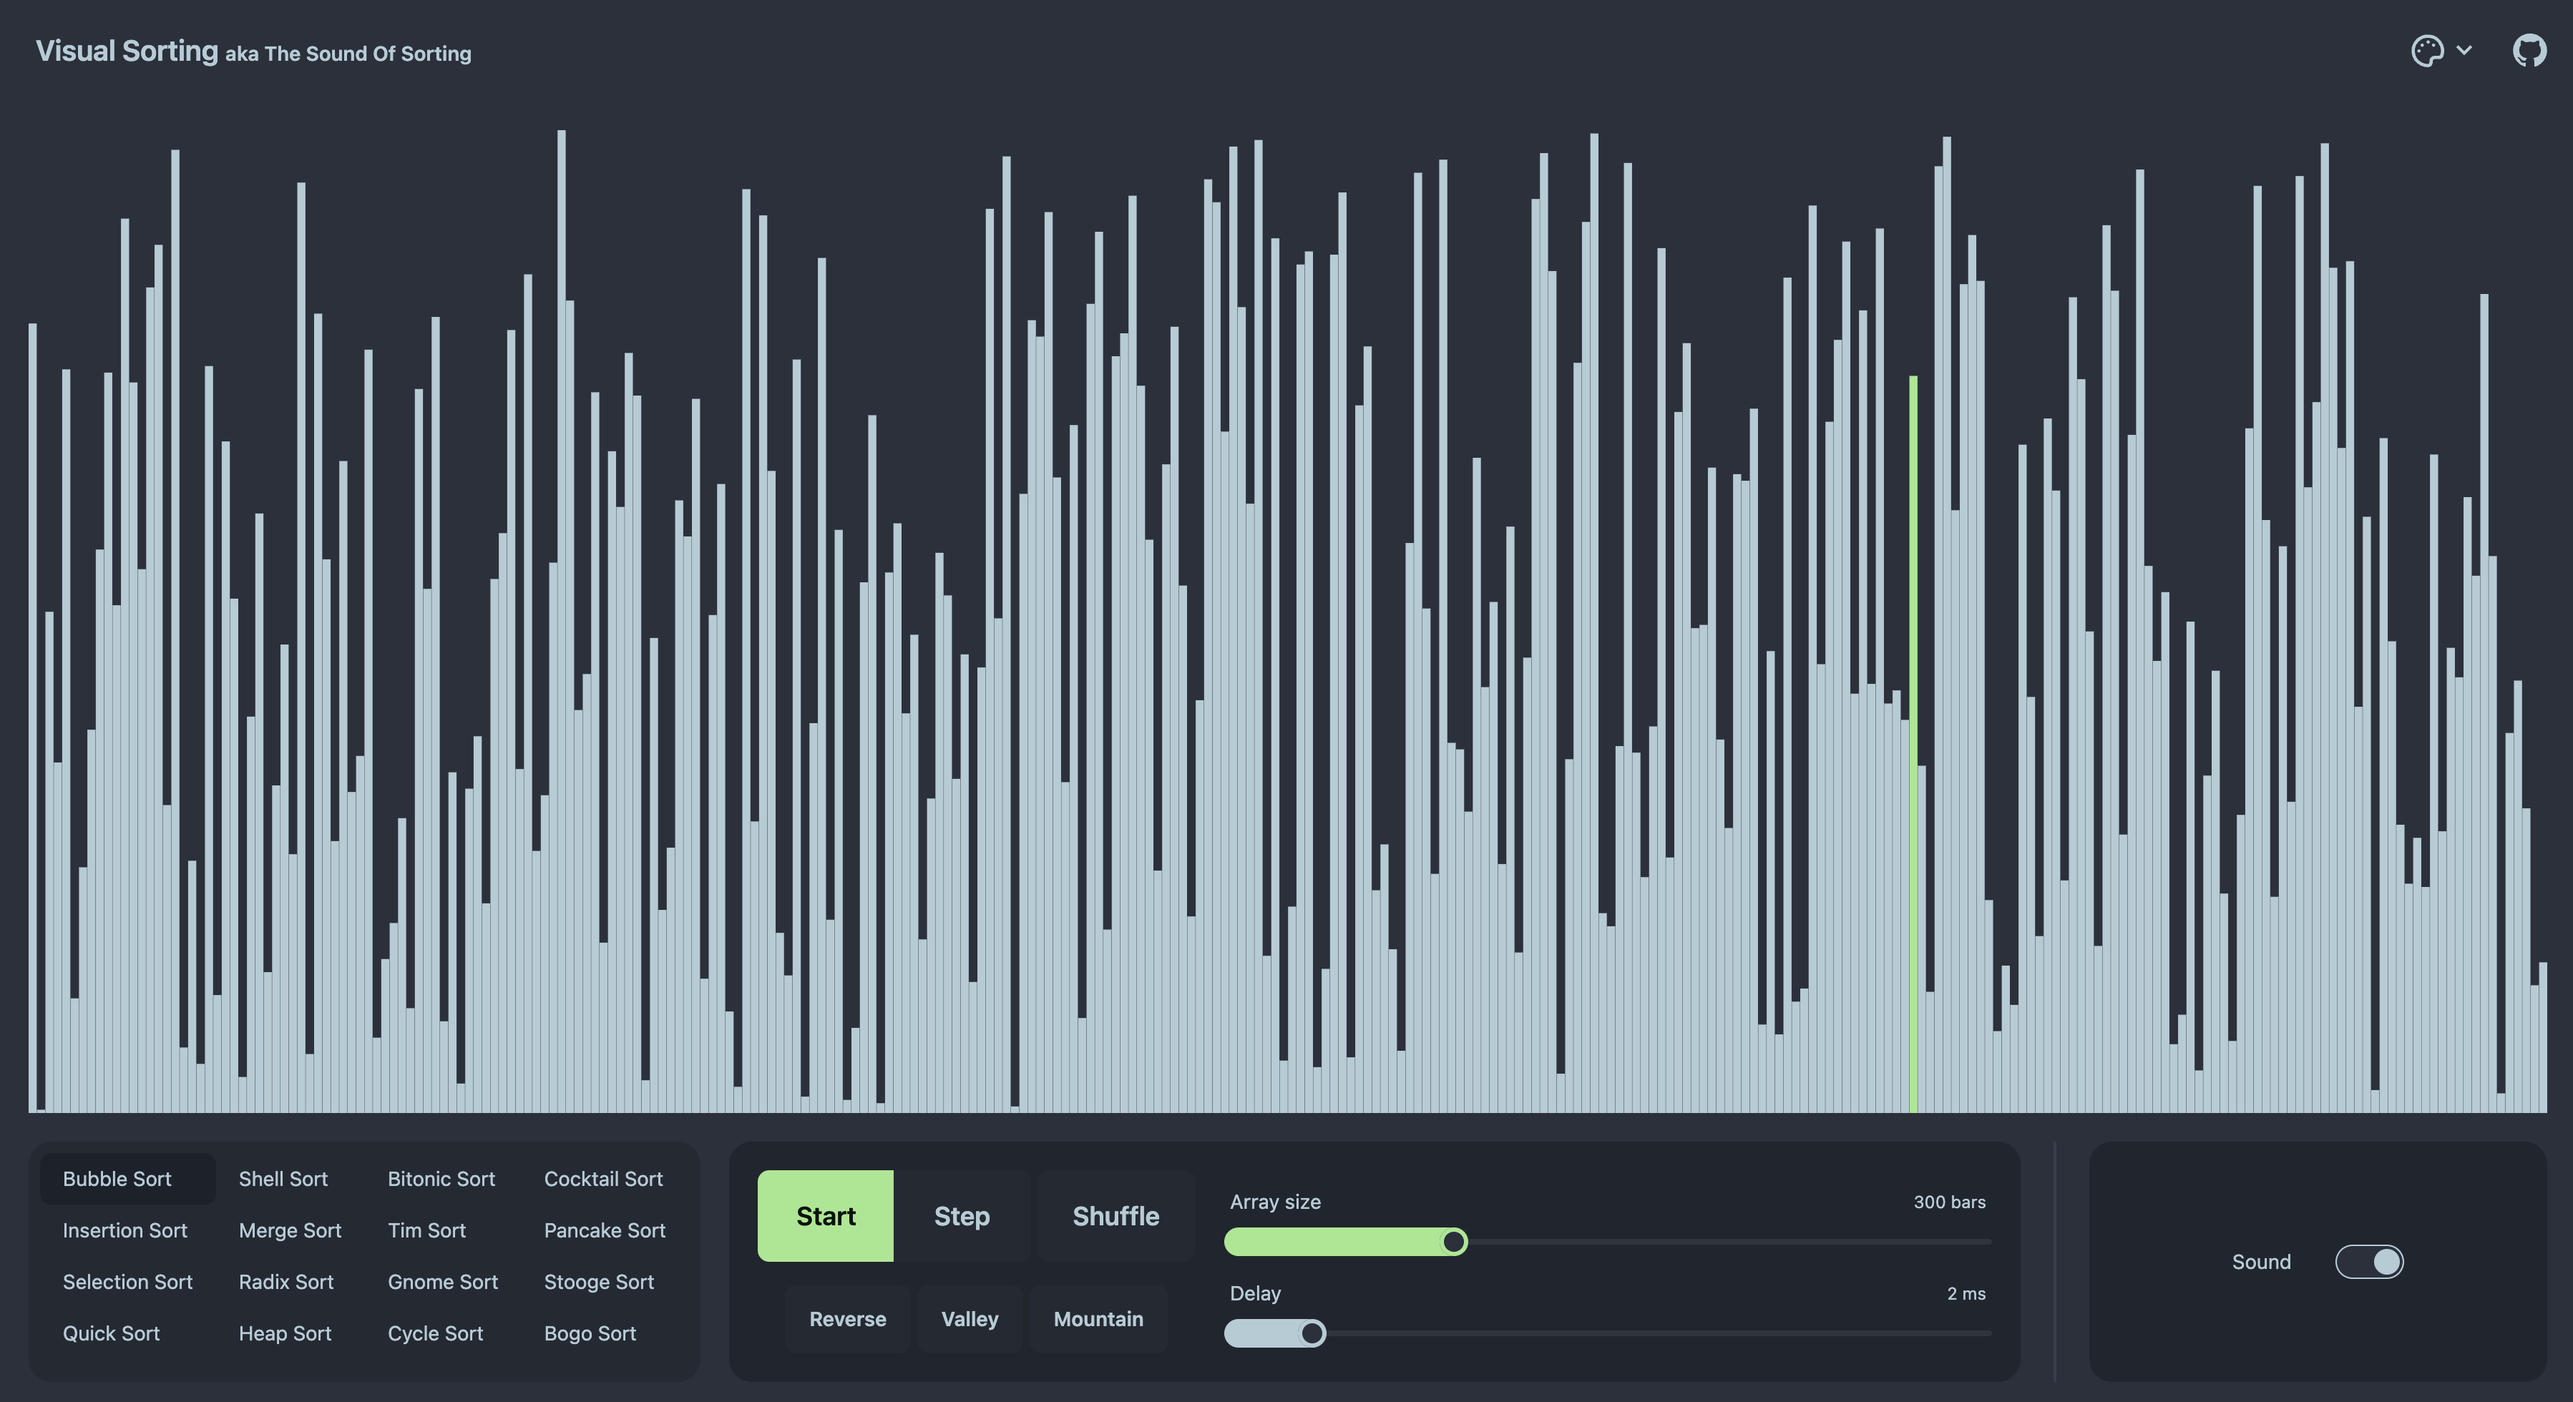
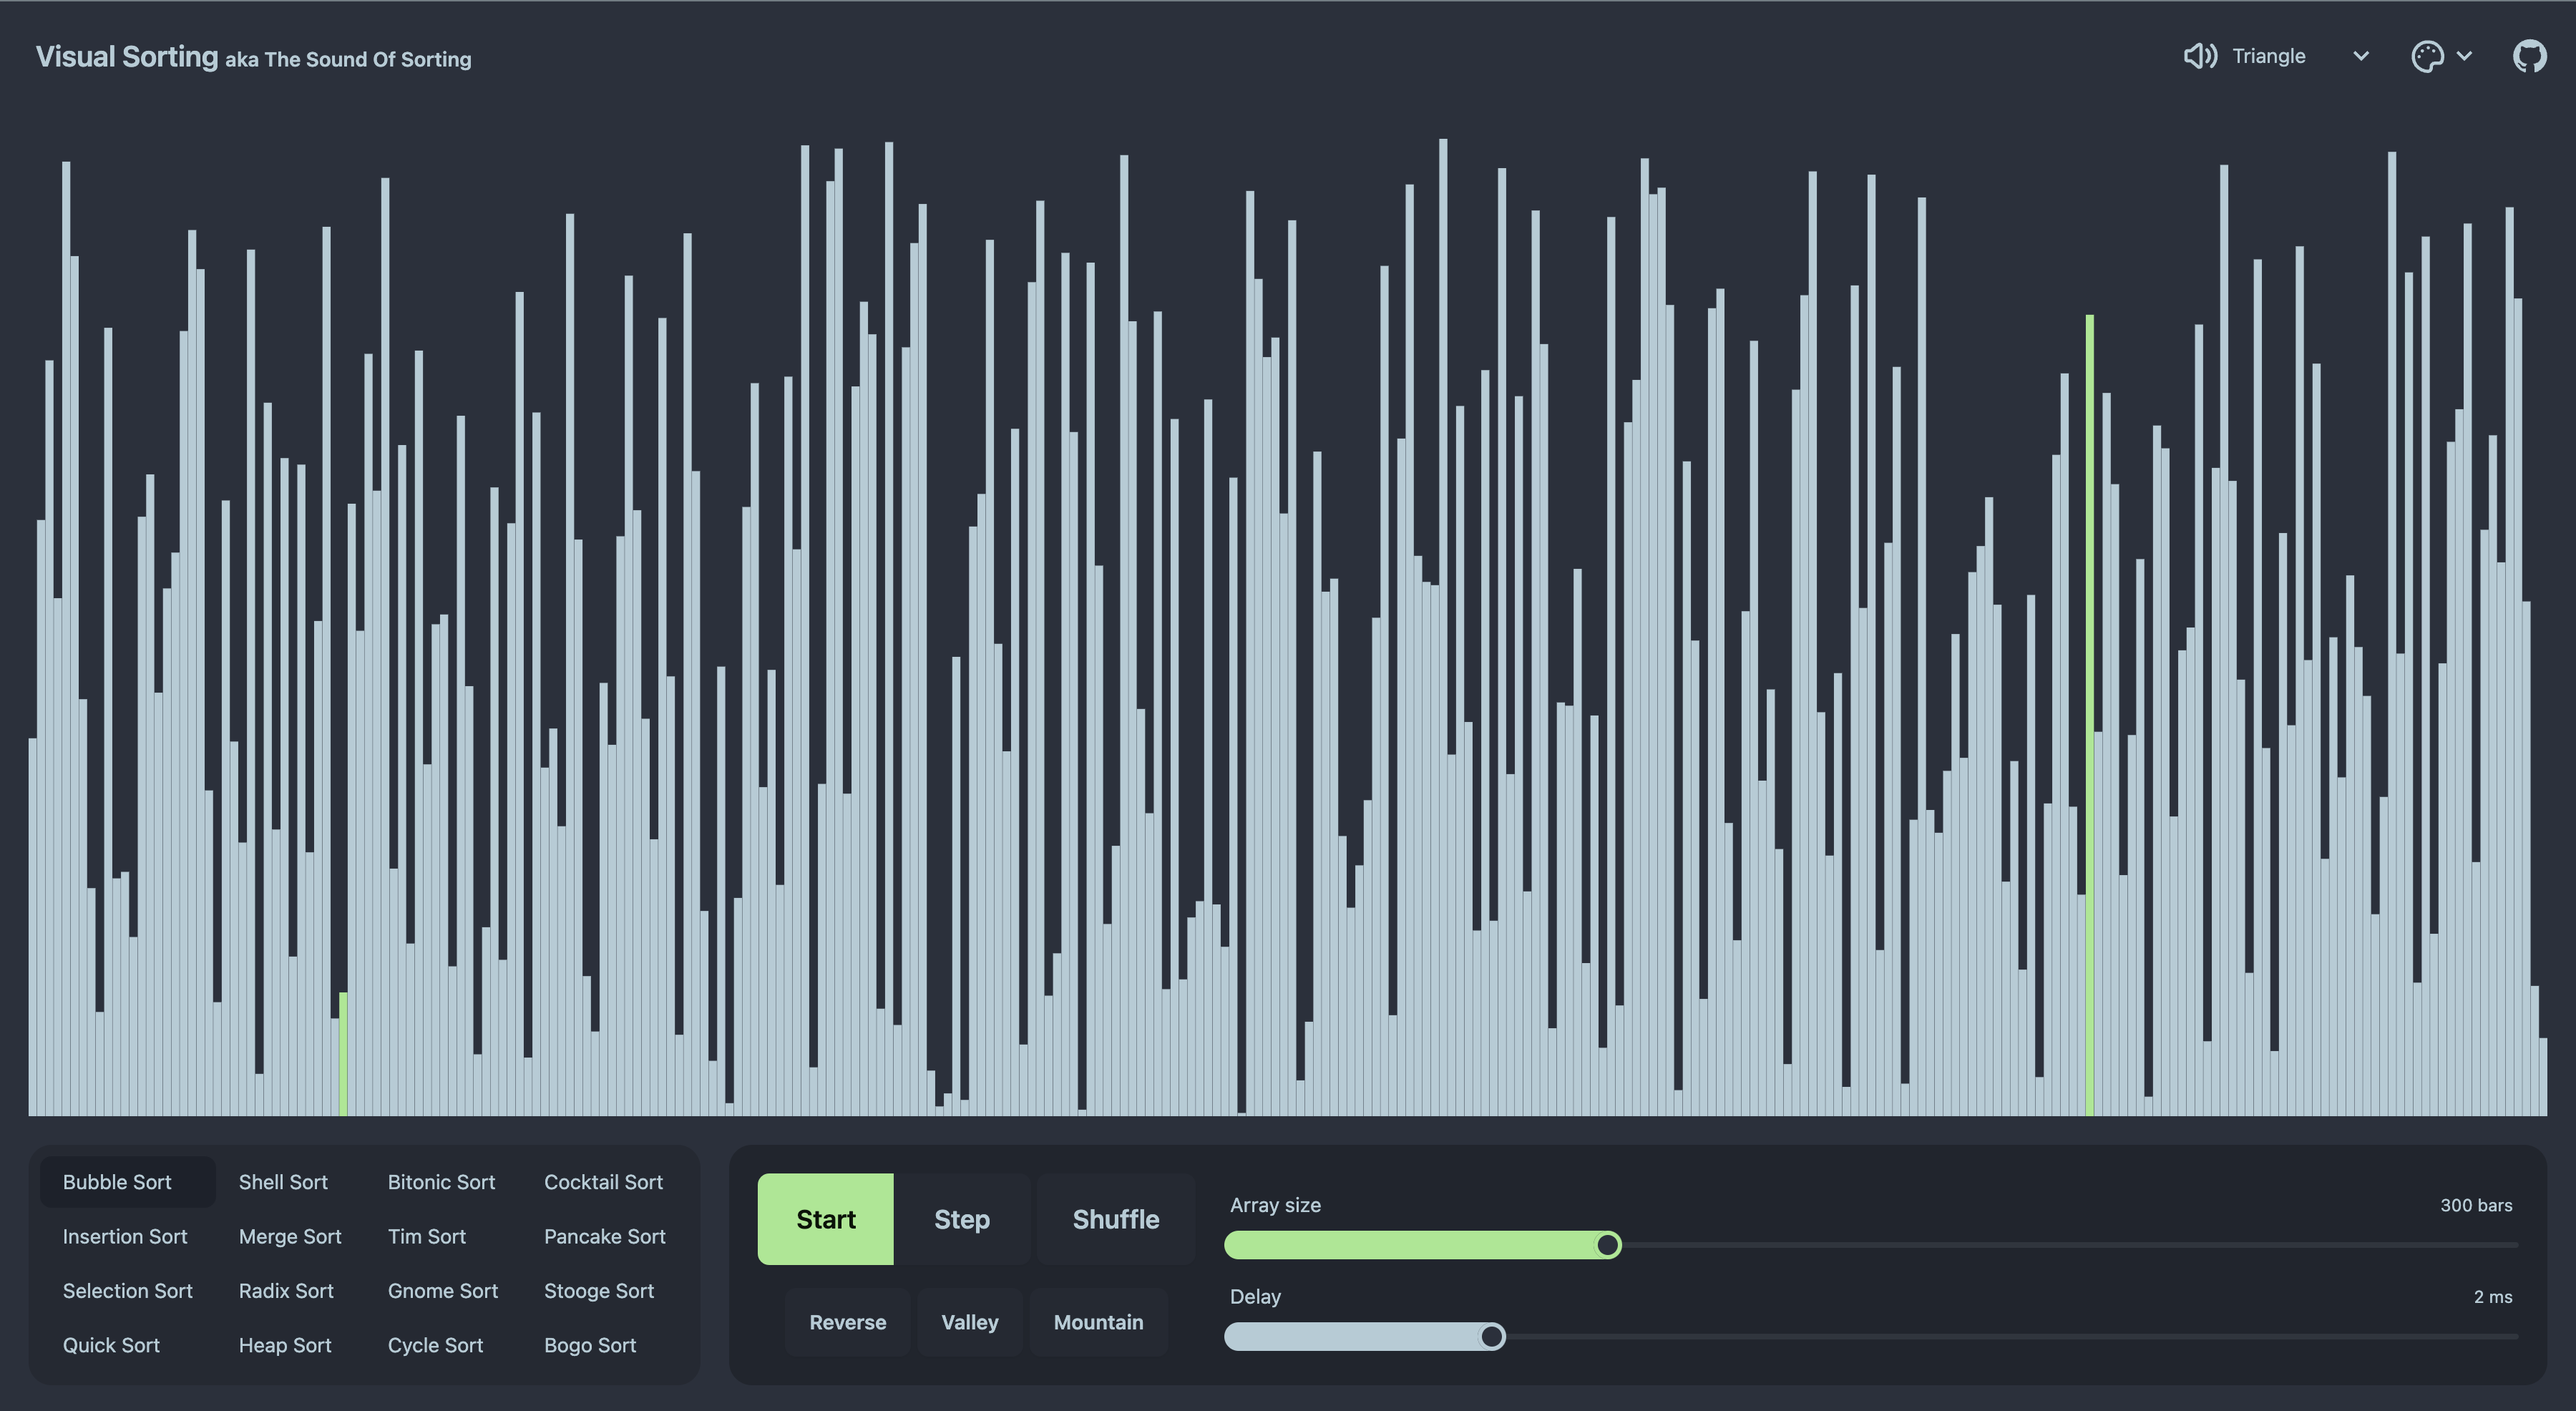
Readme update

diff --git a/README.md b/README.md
@@ -12,9 +12,9 @@ https://github.com/mszula/visual-sorting/assets/17621834/3077ad21-ed6e-432c-ae51
 
 - **Dynamic Visualization**: Vertical bars present the sorting process in real-time.
 - **Step-by-Step Exploration**: Go through each step of the algorithm, and analyze what going on.
-- **Sound Experience**: Each vertical bar represents a value in the sorting array. As the algorithm works on a bar, a sound is produced based on its height.
-- **Input Array Options**: Customize the array to sort by shuffling or reversing. Choose array sizes ranging from 2 to 1000 elements.
-- **Adjustable Speed**: Control the pace by dynamically changing the delay, to speed up or slow down the process.
+- **Sound Experience**: Each vertical bar represents a value in the sorting array. As the algorithm works on a bar, a sound is produced based on its height. There are 24 different sound oscillator options to choose from.
+- **Input Array Options**: Customize the array to sort by shuffling, reversing, or arranging in a mountain and valley form. Choose array sizes ranging from 2 to 1024 elements.
+- **Adjustable Speed**: Control the pace by dynamically changing the delay, to speed up or slow down the process, with precision up to 500 ms.
 - **Themes**: Various themes from DaisyUI so that everyone can find something for themselves.
 
 ## 🤖 Supported Sorting Algorithms
@@ -31,7 +31,7 @@ https://github.com/mszula/visual-sorting/assets/17621834/3077ad21-ed6e-432c-ae51
 - Tim Sort
 - Gnome Sort
 - Cycle Sort
-- Coctail Sort
+- Cocktail Sort
 - Pancake Sort
 - Stooge Sort
 - Bogo Sort
